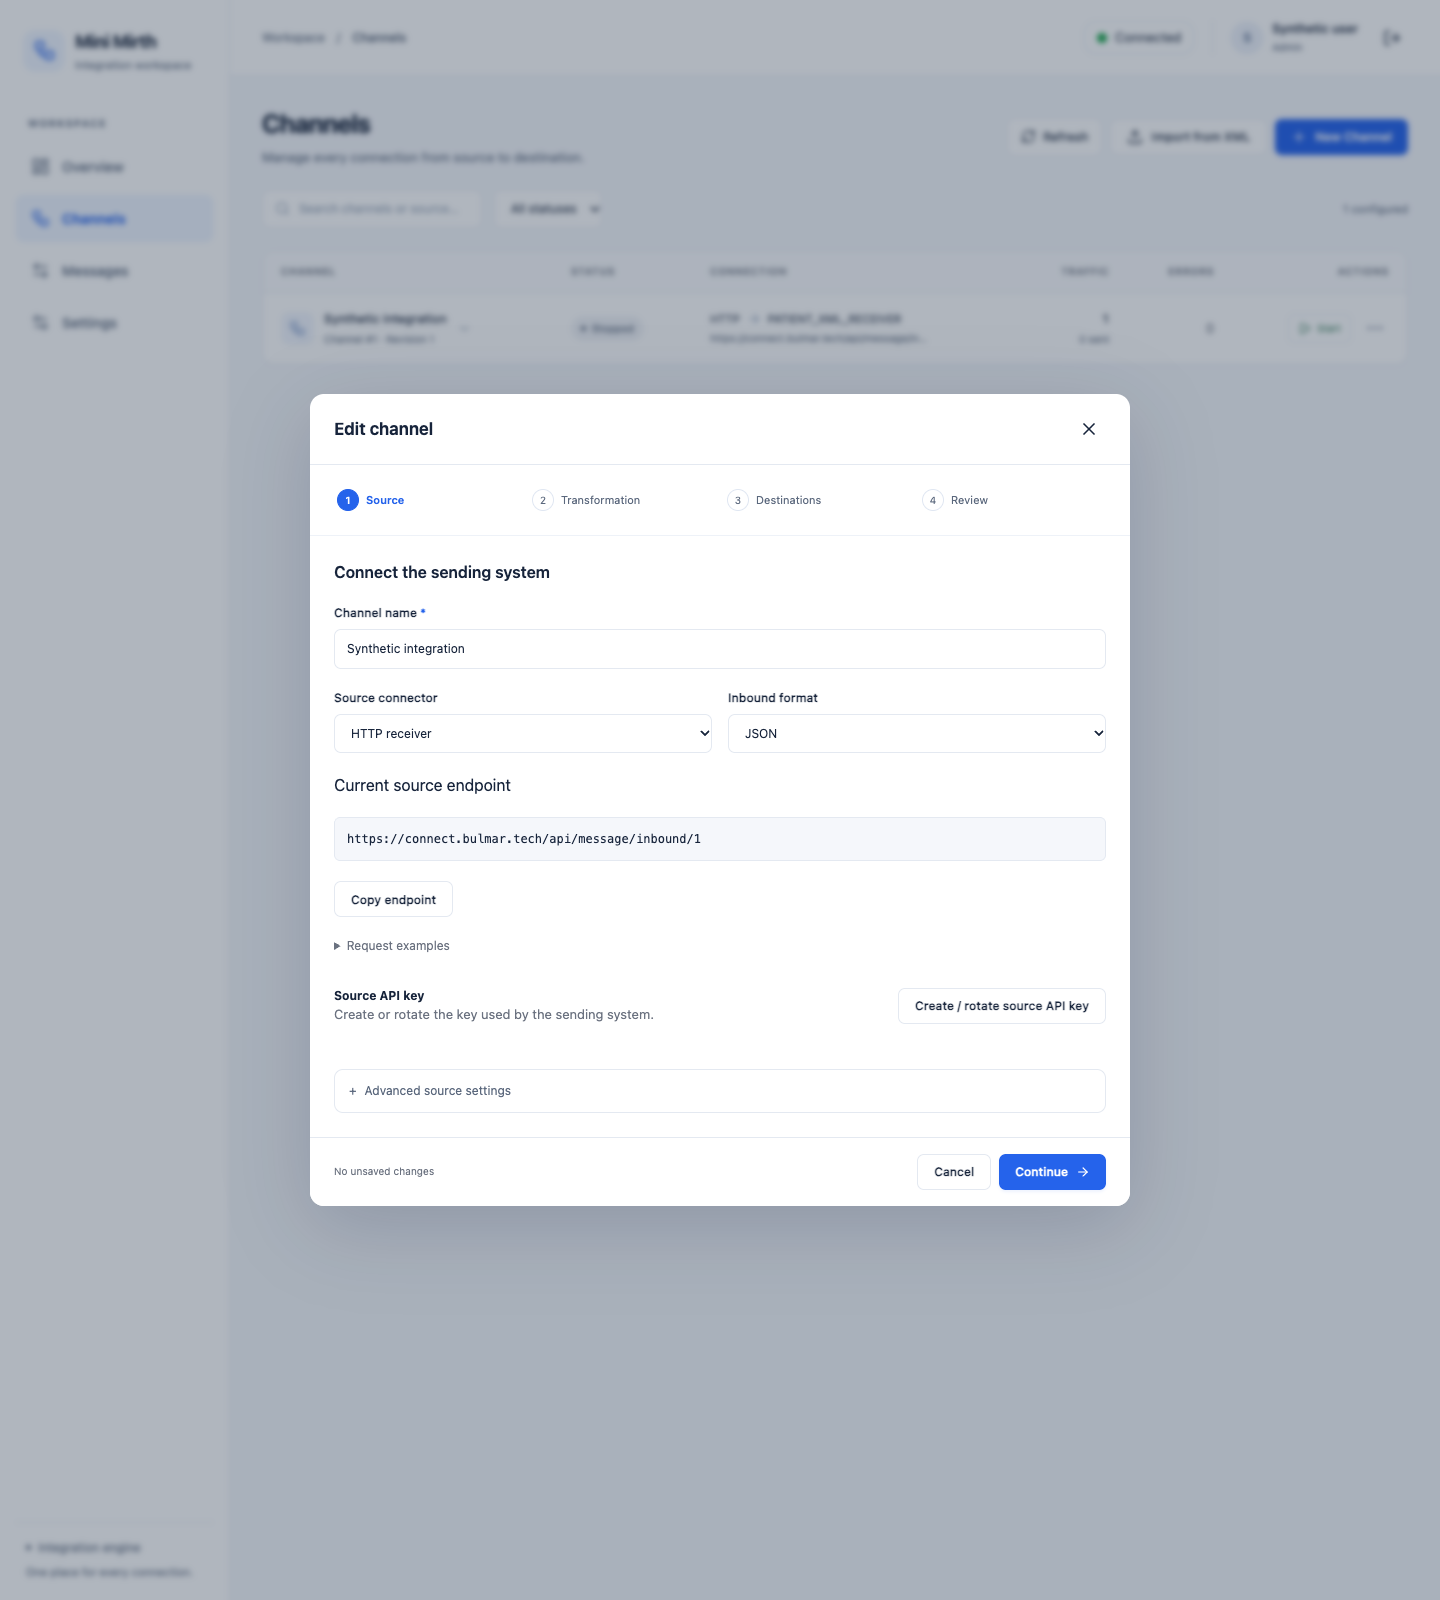
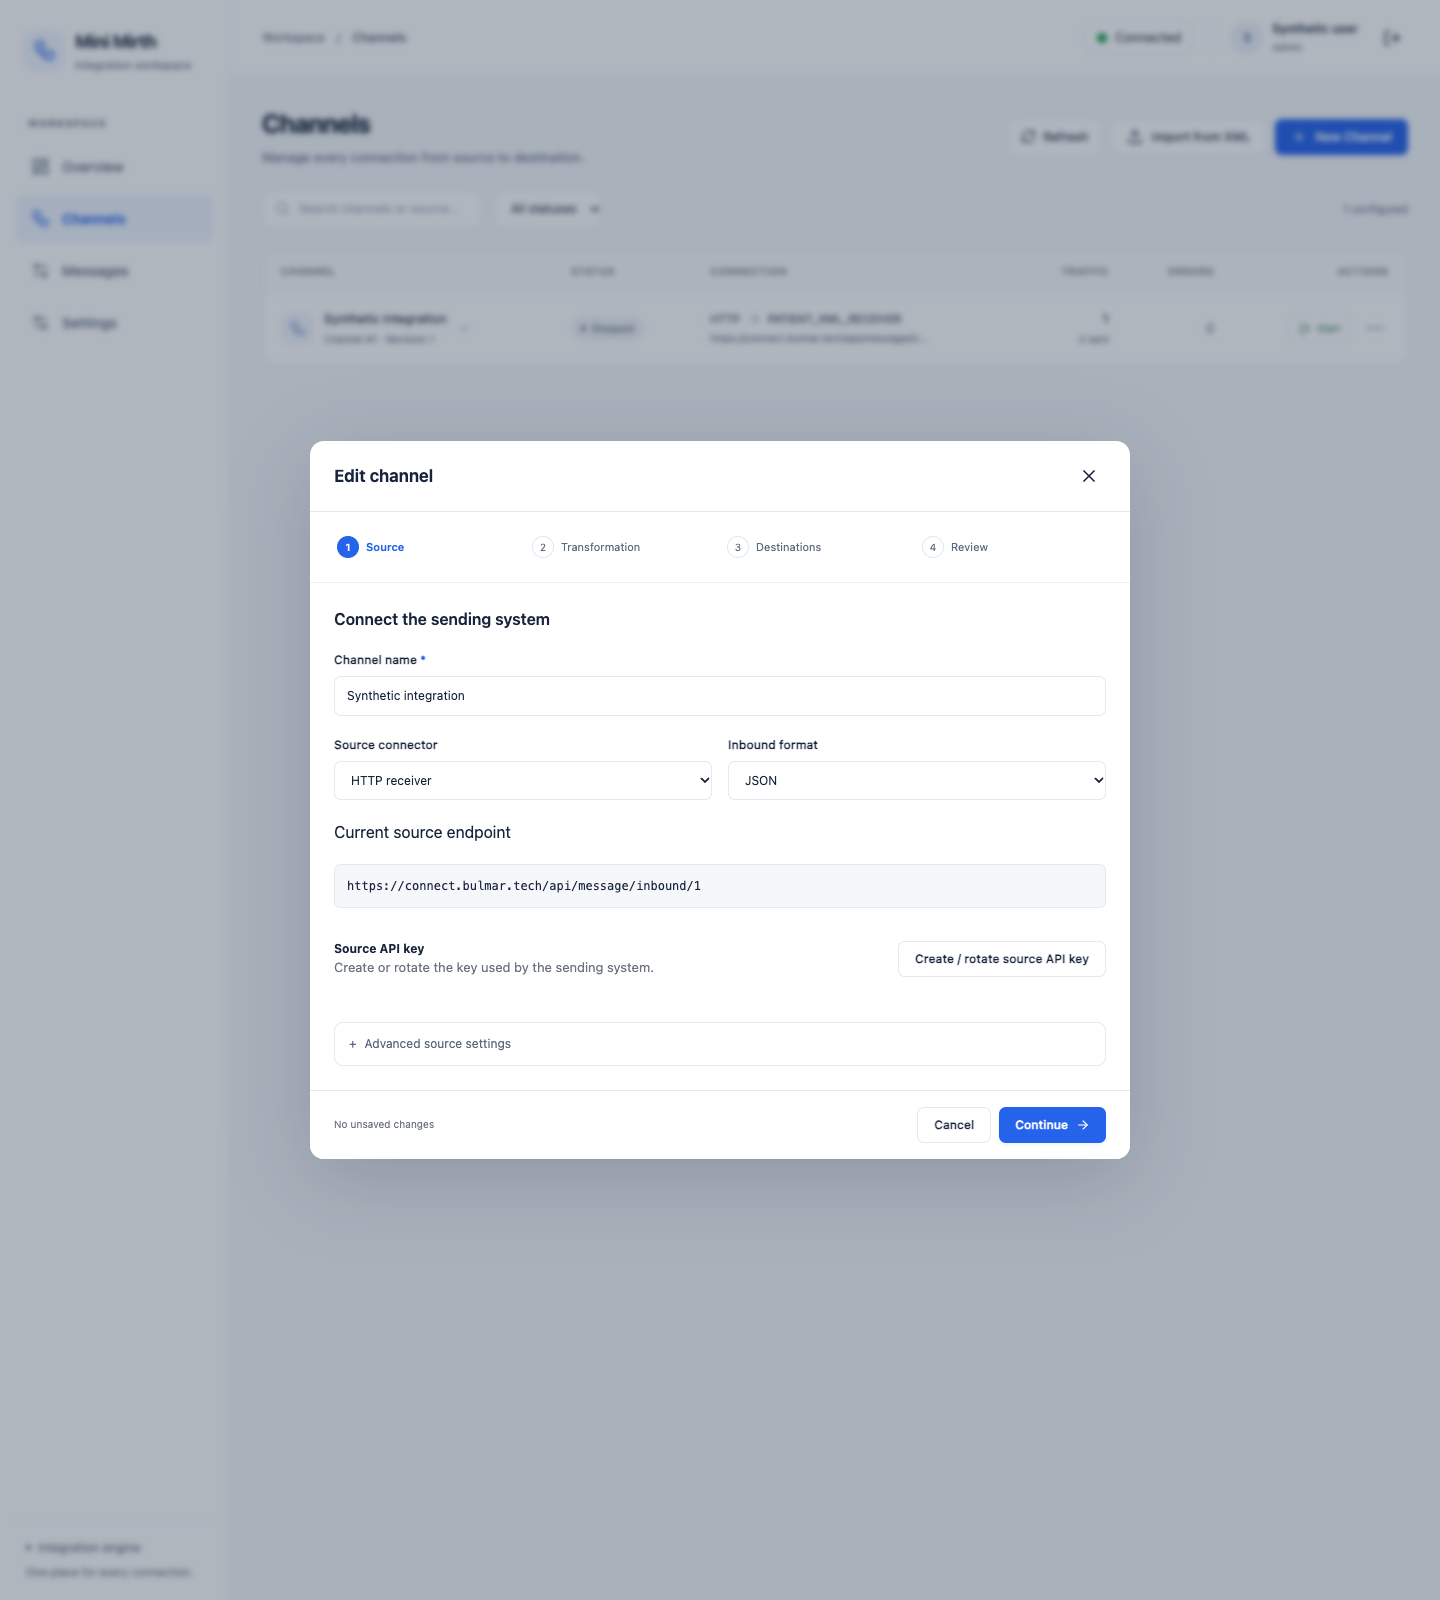
refactor: remove endpoint copy and request example controls

diff --git a/client/e2e/usability.spec.ts b/client/e2e/usability.spec.ts
@@ -482,16 +482,14 @@ test('JSON to XML preview, connection test and confirmed onboarding delivery kee
   await onboarding.getByText('Test this channel', { exact: true }).click();
   const endpoint = onboarding.getByRole('region', { name: 'Current source endpoint' });
   await expect(endpoint).toContainText(`${productionBase}/api/message/inbound/2`);
-  await endpoint.getByRole('button', { name: 'Copy endpoint', exact: true }).click();
-  expect(await clipboard(page)).toBe(`${productionBase}/api/message/inbound/2`);
-  await expect(endpoint.getByRole('button', { name: 'Copy curl example' })).not.toBeVisible();
-  await endpoint.getByText('Request examples', { exact: true }).click();
-  await endpoint.getByRole('button', { name: 'Copy curl example' }).click();
-  expect(await clipboard(page)).toContain('X-API-Key: <SOURCE_API_KEY>');
-  await endpoint.getByRole('button', { name: 'Copy Postman request' }).click();
-  expect(JSON.parse(await clipboard(page)).item[0].request.url).toBe(
-    `${productionBase}/api/message/inbound/2`,
-  );
+  await expect(endpoint.getByRole('button')).toHaveCount(0);
+  await expect(endpoint.locator('summary')).toHaveCount(0);
+  await expect(
+    endpoint.getByText(
+      'Replace the API key and request ID placeholders before sending synthetic data.',
+      { exact: true },
+    ),
+  ).toHaveCount(0);
   await onboarding.getByRole('button', { name: 'Create API key', exact: true }).click();
   expect(state.rotations).toBe(0);
   await page.getByRole('button', { name: 'Create key', exact: true }).click();
@@ -856,7 +854,7 @@ for (const [label, base] of [
   ['local', 'http://localhost:9000'],
   ['production', productionBase],
 ] as const)
-  test(`${label} source endpoint stays visible and request examples remain optional`, async ({
+  test(`${label} source endpoint stays visible without copy controls or request examples`, async ({
     page,
   }) => {
     await workspace(page, {
@@ -872,15 +870,14 @@ for (const [label, base] of [
     const endpoint = page.getByRole('region', { name: 'Current source endpoint' });
     await expect(endpoint).toBeVisible();
     await expect(endpoint).toContainText(`${base}/api/message/inbound/1`);
-    await expect(endpoint.getByRole('button', { name: 'Copy curl example' })).not.toBeVisible();
-    await endpoint.getByText('Request examples', { exact: true }).click();
-    await endpoint.getByRole('button', { name: 'Copy curl example' }).click();
-    expect(await clipboard(page)).toContain(`POST '${base}/api/message/inbound/1'`);
-    expect(await clipboard(page)).toContain('<SOURCE_API_KEY>');
-    await endpoint.getByRole('button', { name: 'Copy Postman request' }).click();
-    expect(JSON.parse(await clipboard(page)).item[0].request.url).toBe(
-      `${base}/api/message/inbound/1`,
-    );
+    await expect(endpoint.getByRole('button')).toHaveCount(0);
+    await expect(endpoint.locator('summary')).toHaveCount(0);
+    await expect(
+      endpoint.getByText(
+        'Replace the API key and request ID placeholders before sending synthetic data.',
+        { exact: true },
+      ),
+    ).toHaveCount(0);
   });
 
 test('Messages separates inbound, source and final output while auditing raw pagination', async ({

diff --git a/client/test/source-request.test.ts b/client/test/source-request.test.ts
@@ -2,54 +2,26 @@ import { describe, expect, it } from 'vitest';
 import { sourceRequest } from '../src/features/channels/sourceRequest';
 import { DataType } from '../src/types';
 
-describe('Synthetic source request exports', () => {
-  it.each(['http://localhost:9000', 'https://connect.bulmar.tech'])(
-    'uses the authoritative endpoint at %s',
-    (base) => {
-      const endpoint = base + '/api/message/inbound/42';
-      const result = sourceRequest({
-        id: 42,
-        name: 'Synthetic',
-        source: { type: 'HTTP', inboundDataType: DataType.JSON, endpoint },
-      });
-      const collection = JSON.parse(result.postman);
-      expect(collection.item[0].request.url).toBe(endpoint);
-      expect(result.curl).toContain(endpoint);
-      expect(result.curl).toContain('X-API-Key: <SOURCE_API_KEY>');
-      expect(result.curl).not.toContain('\n+');
-      expect(collection.item[0].request.header).toContainEqual({
-        key: 'X-API-Key',
-        value: '{{source_api_key}}',
-      });
-      expect(collection.item[0].request.header).toContainEqual({
-        key: 'Idempotency-Key',
-        value: '{{idempotency_key}}',
-      });
-      expect(JSON.parse(collection.item[0].request.body.raw)).toEqual({
-        message: 'Synthetic connection test',
-      });
-    },
-  );
+describe('Synthetic source requests', () => {
   it.each([
     [DataType.JSON, 'application/json', 'Synthetic connection test'],
     [DataType.XML, 'application/xml', '<message>'],
     [DataType.HL7V2, 'text/plain', 'MSH|^~\\&|'],
     [DataType.TEXT, 'text/plain', 'Synthetic connection test'],
   ])(
-    'exports a synthetic %s request with its actual content type',
+    'builds a synthetic %s request with its actual content type',
     (format, contentType, marker) => {
-      const { postman } = sourceRequest({
-        id: 1,
-        name: 'Synthetic',
+      const request = sourceRequest({
         source: {
           type: 'HTTP',
           inboundDataType: format as DataType,
           endpoint: 'https://connect.example.test/api/message/inbound/1',
         },
       });
-      const request = JSON.parse(postman).item[0].request;
-      expect(request.header[0]).toEqual({ key: 'Content-Type', value: contentType });
-      expect(request.body.raw).toContain(marker);
+      expect(request.contentType).toBe(contentType);
+      expect(request.body).toContain(marker);
+      if (format === DataType.JSON)
+        expect(JSON.parse(request.body)).toEqual({ message: 'Synthetic connection test' });
     },
   );
 });

diff --git a/client/src/features/channels/SourceEndpoint.tsx b/client/src/features/channels/SourceEndpoint.tsx
@@ -1,62 +1,11 @@
-import { useState } from 'react';
 import type { Channel } from '../../types';
-import { Button } from '../../components/ui/Button';
-import { sourceRequest } from './sourceRequest';
 
-export function SourceEndpoint({ channel }: { channel: Pick<Channel, 'id' | 'name' | 'source'> }) {
-  const [notice, setNotice] = useState('');
-  const [error, setError] = useState('');
+export function SourceEndpoint({ channel }: { channel: Pick<Channel, 'source'> }) {
   if (channel.source.type !== 'HTTP' || !channel.source.endpoint) return null;
-  const examples = sourceRequest(channel);
-  async function copy(value: string, label: string) {
-    setNotice('');
-    setError('');
-    try {
-      await navigator.clipboard.writeText(value);
-      setNotice(label + ' copied');
-    } catch {
-      setError('Clipboard is unavailable. Select and copy the endpoint, or use HTTPS.');
-    }
-  }
   return (
     <section className="source-endpoint form-section" aria-label="Current source endpoint">
       <h3>Current source endpoint</h3>
-      <code className="code-box break-anywhere">{examples.endpoint}</code>
-      <div className="heading-actions">
-        <Button
-          type="button"
-          variant="secondary"
-          onClick={() => void copy(examples.endpoint, 'Endpoint')}
-        >
-          Copy endpoint
-        </Button>
-      </div>
-      <details className="source-request-examples">
-        <summary>Request examples</summary>
-        <div className="form-section">
-          <div className="heading-actions">
-            <Button
-              type="button"
-              variant="secondary"
-              onClick={() => void copy(examples.curl, 'curl example')}
-            >
-              Copy curl example
-            </Button>
-            <Button
-              type="button"
-              variant="secondary"
-              onClick={() => void copy(examples.postman, 'Postman collection')}
-            >
-              Copy Postman request
-            </Button>
-          </div>
-          <small>
-            Replace the API key and request ID placeholders before sending synthetic data.
-          </small>
-        </div>
-      </details>
-      {notice && <p role="status">{notice}</p>}
-      {error && <p role="alert">{error}</p>}
+      <code className="code-box break-anywhere">{channel.source.endpoint}</code>
     </section>
   );
 }

diff --git a/client/src/features/channels/sourceRequest.ts b/client/src/features/channels/sourceRequest.ts
@@ -1,7 +1,6 @@
 import type { Channel } from '../../types';
 
-export function sourceRequest(channel: Pick<Channel, 'id' | 'name' | 'source'>) {
-  const endpoint = channel.source.endpoint || '';
+export function sourceRequest(channel: Pick<Channel, 'source'>) {
   const format = channel.source.inboundDataType || 'HL7V2';
   const contentType =
     format === 'JSON' ? 'application/json' : format === 'XML' ? 'application/xml' : 'text/plain';
@@ -13,44 +12,5 @@ export function sourceRequest(channel: Pick<Channel, 'id' | 'name' | 'source'>) 
         : format === 'HL7V2'
           ? 'MSH|^~\\&|SYNTHETIC|TEST|RECEIVER|TEST|20261016000000||ADT^A01|SYNTHETIC-001|P|2.5\rPID|1||SYNTHETIC-001^^^TEST^MR||TEST^SYNTHETIC\r'
           : 'Synthetic connection test';
-  const quote = (value: string) => "'" + value.replaceAll("'", "'\\''") + "'";
-  return {
-    endpoint,
-    curl: [
-      `curl --request POST ${quote(endpoint)}`,
-      `--header ${quote('Content-Type: ' + contentType)}`,
-      `--header ${quote('X-API-Key: <SOURCE_API_KEY>')}`,
-      `--header ${quote('Idempotency-Key: <UNIQUE_REQUEST_ID>')}`,
-      `--data-binary ${quote(body)}`,
-    ].join(' \\\n  '),
-    postman: JSON.stringify(
-      {
-        info: {
-          name: channel.name + ' — synthetic inbound test',
-          schema: 'https://schema.getpostman.com/json/collection/v2.1.0/collection.json',
-        },
-        variable: [
-          { key: 'source_api_key', value: '<SOURCE_API_KEY>', type: 'string' },
-          { key: 'idempotency_key', value: '<UNIQUE_REQUEST_ID>', type: 'string' },
-        ],
-        item: [
-          {
-            name: 'Send synthetic message',
-            request: {
-              method: 'POST',
-              header: [
-                { key: 'Content-Type', value: contentType },
-                { key: 'X-API-Key', value: '{{source_api_key}}' },
-                { key: 'Idempotency-Key', value: '{{idempotency_key}}' },
-              ],
-              url: endpoint,
-              body: { mode: 'raw', raw: body },
-            },
-          },
-        ],
-      },
-      null,
-      2,
-    ),
-  };
+  return { contentType, body };
 }

diff --git a/client/src/features/channels/ChannelOnboarding.tsx b/client/src/features/channels/ChannelOnboarding.tsx
@@ -141,10 +141,7 @@ export function ChannelOnboarding({
                     Send synthetic message
                   </Button>
                   {(!running || !key) && (
-                    <small>
-                      Start the channel and create a key here to send a test, or use your saved key
-                      with a request example.
-                    </small>
+                    <small>Start the channel and create a key here to send a test.</small>
                   )}
                 </>
               ) : (
@@ -189,11 +186,10 @@ export function ChannelOnboarding({
         confirmLabel="Send test request"
         onConfirm={() =>
           action(async () => {
-            const collection = JSON.parse(sourceRequest(channel).postman);
-            const request = collection.item[0].request;
-            const { data } = await api.post(`/message/inbound/${channel.id}`, request.body.raw, {
+            const request = sourceRequest(channel);
+            const { data } = await api.post(`/message/inbound/${channel.id}`, request.body, {
               headers: {
-                'Content-Type': request.header[0].value,
+                'Content-Type': request.contentType,
                 'X-API-Key': key,
                 'Idempotency-Key': crypto.randomUUID(),
               },

diff --git a/client/src/index.css b/client/src/index.css
@@ -35,14 +35,12 @@
   margin-top: 4px;
   font-size: 12px;
 }
-.channel-test-tools > summary,
-.source-request-examples > summary {
+.channel-test-tools > summary {
   font-size: 12px;
   color: var(--text-soft);
   cursor: pointer;
 }
-.channel-test-tools[open] > summary,
-.source-request-examples[open] > summary {
+.channel-test-tools[open] > summary {
   margin-bottom: 12px;
 }
 .source-key-tools {

diff --git a/docs/MIRTH_LITE_UI.md b/docs/MIRTH_LITE_UI.md
@@ -20,7 +20,7 @@ Navigasi utama terdiri dari Overview untuk kesehatan/antrean, Channels untuk kon
 | Inbound/outbound payload | Payload per tahap dan destination snapshot tetap tersimpan; masking/raw permission dan audit tetap berlaku |
 | Riwayat, publish, rollback | Tetap tersedia; summary di UI opsional, sistem menulis keterangan otomatis agar audit trail tidak kosong |
 
-Setelah **Save Channel**, dialog onboarding menyediakan Start channel, API key dan Open Messages. **Test this channel** membuka contoh request dan pengiriman sintetis. API key hanya ditampilkan sekali; rotasi membatalkan key sebelumnya. Endpoint berasal dari backend (`PUBLIC_BASE_URL` / `INBOUND_PATH`); copy membutuhkan HTTPS atau secure localhost dan tetap dapat dilakukan manual bila clipboard ditolak browser.
+Setelah **Save Channel**, dialog onboarding menyediakan Start channel, API key dan Open Messages. **Test this channel** membuka alamat endpoint dan pengiriman sintetis. API key hanya ditampilkan sekali; rotasi membatalkan key sebelumnya. Endpoint berasal dari backend (`PUBLIC_BASE_URL` / `INBOUND_PATH`) dan tetap bisa dipilih/disalin manual. Tombol Copy endpoint, contoh curl/Postman dan petunjuk placeholder telah dihapus dari editor, detail channel dan onboarding. Tombol Copy API key tetap tersedia untuk key yang ditampilkan sekali; clipboard memerlukan HTTPS atau secure localhost.
 
 Filter sederhana menggunakan dropdown. Pada source pilih **Accept all messages** atau **Filter all messages**; pada destination pilih **Deliver to this destination** atau **Skip this destination**. Pengguna tidak perlu mengetik `true`/`false`. **Custom condition (advanced)** membuka editor script untuk aturan khusus; script existing ditampilkan dalam disclosure Advanced yang awalnya tertutup dan tetap dipertahankan sampai pengguna memilih perubahan. Script lama yang hanya berisi literal `false` tetap dianggap custom agar perilaku running tidak berubah secara diam-diam; pilih perilaku sederhana secara eksplisit untuk menggantinya.
 

diff --git a/CHANGELOG.md b/CHANGELOG.md
@@ -1,5 +1,11 @@
 # Changelog
 
+## Remove endpoint copy and request examples — 2026-10-16
+
+- Remove Copy endpoint, curl/Postman request examples and placeholder instructions from the shared endpoint display; retain the source URL and one-time API-key copy.
+- Remove unused example generation and styles while preserving confirmed synthetic-send payloads and headers. Remove two export-only tests with the deleted feature; retain format/request coverage.
+- Verify build, typecheck, lint, formatting, 301 unit/API tests and 45 browser tests. No backend or database changes.
+
 ## Simple filter choices — 2026-10-16
 
 - Replace source/destination boolean textareas with explicit accept/filter or deliver/skip choices; keep custom conditions in Advanced.
